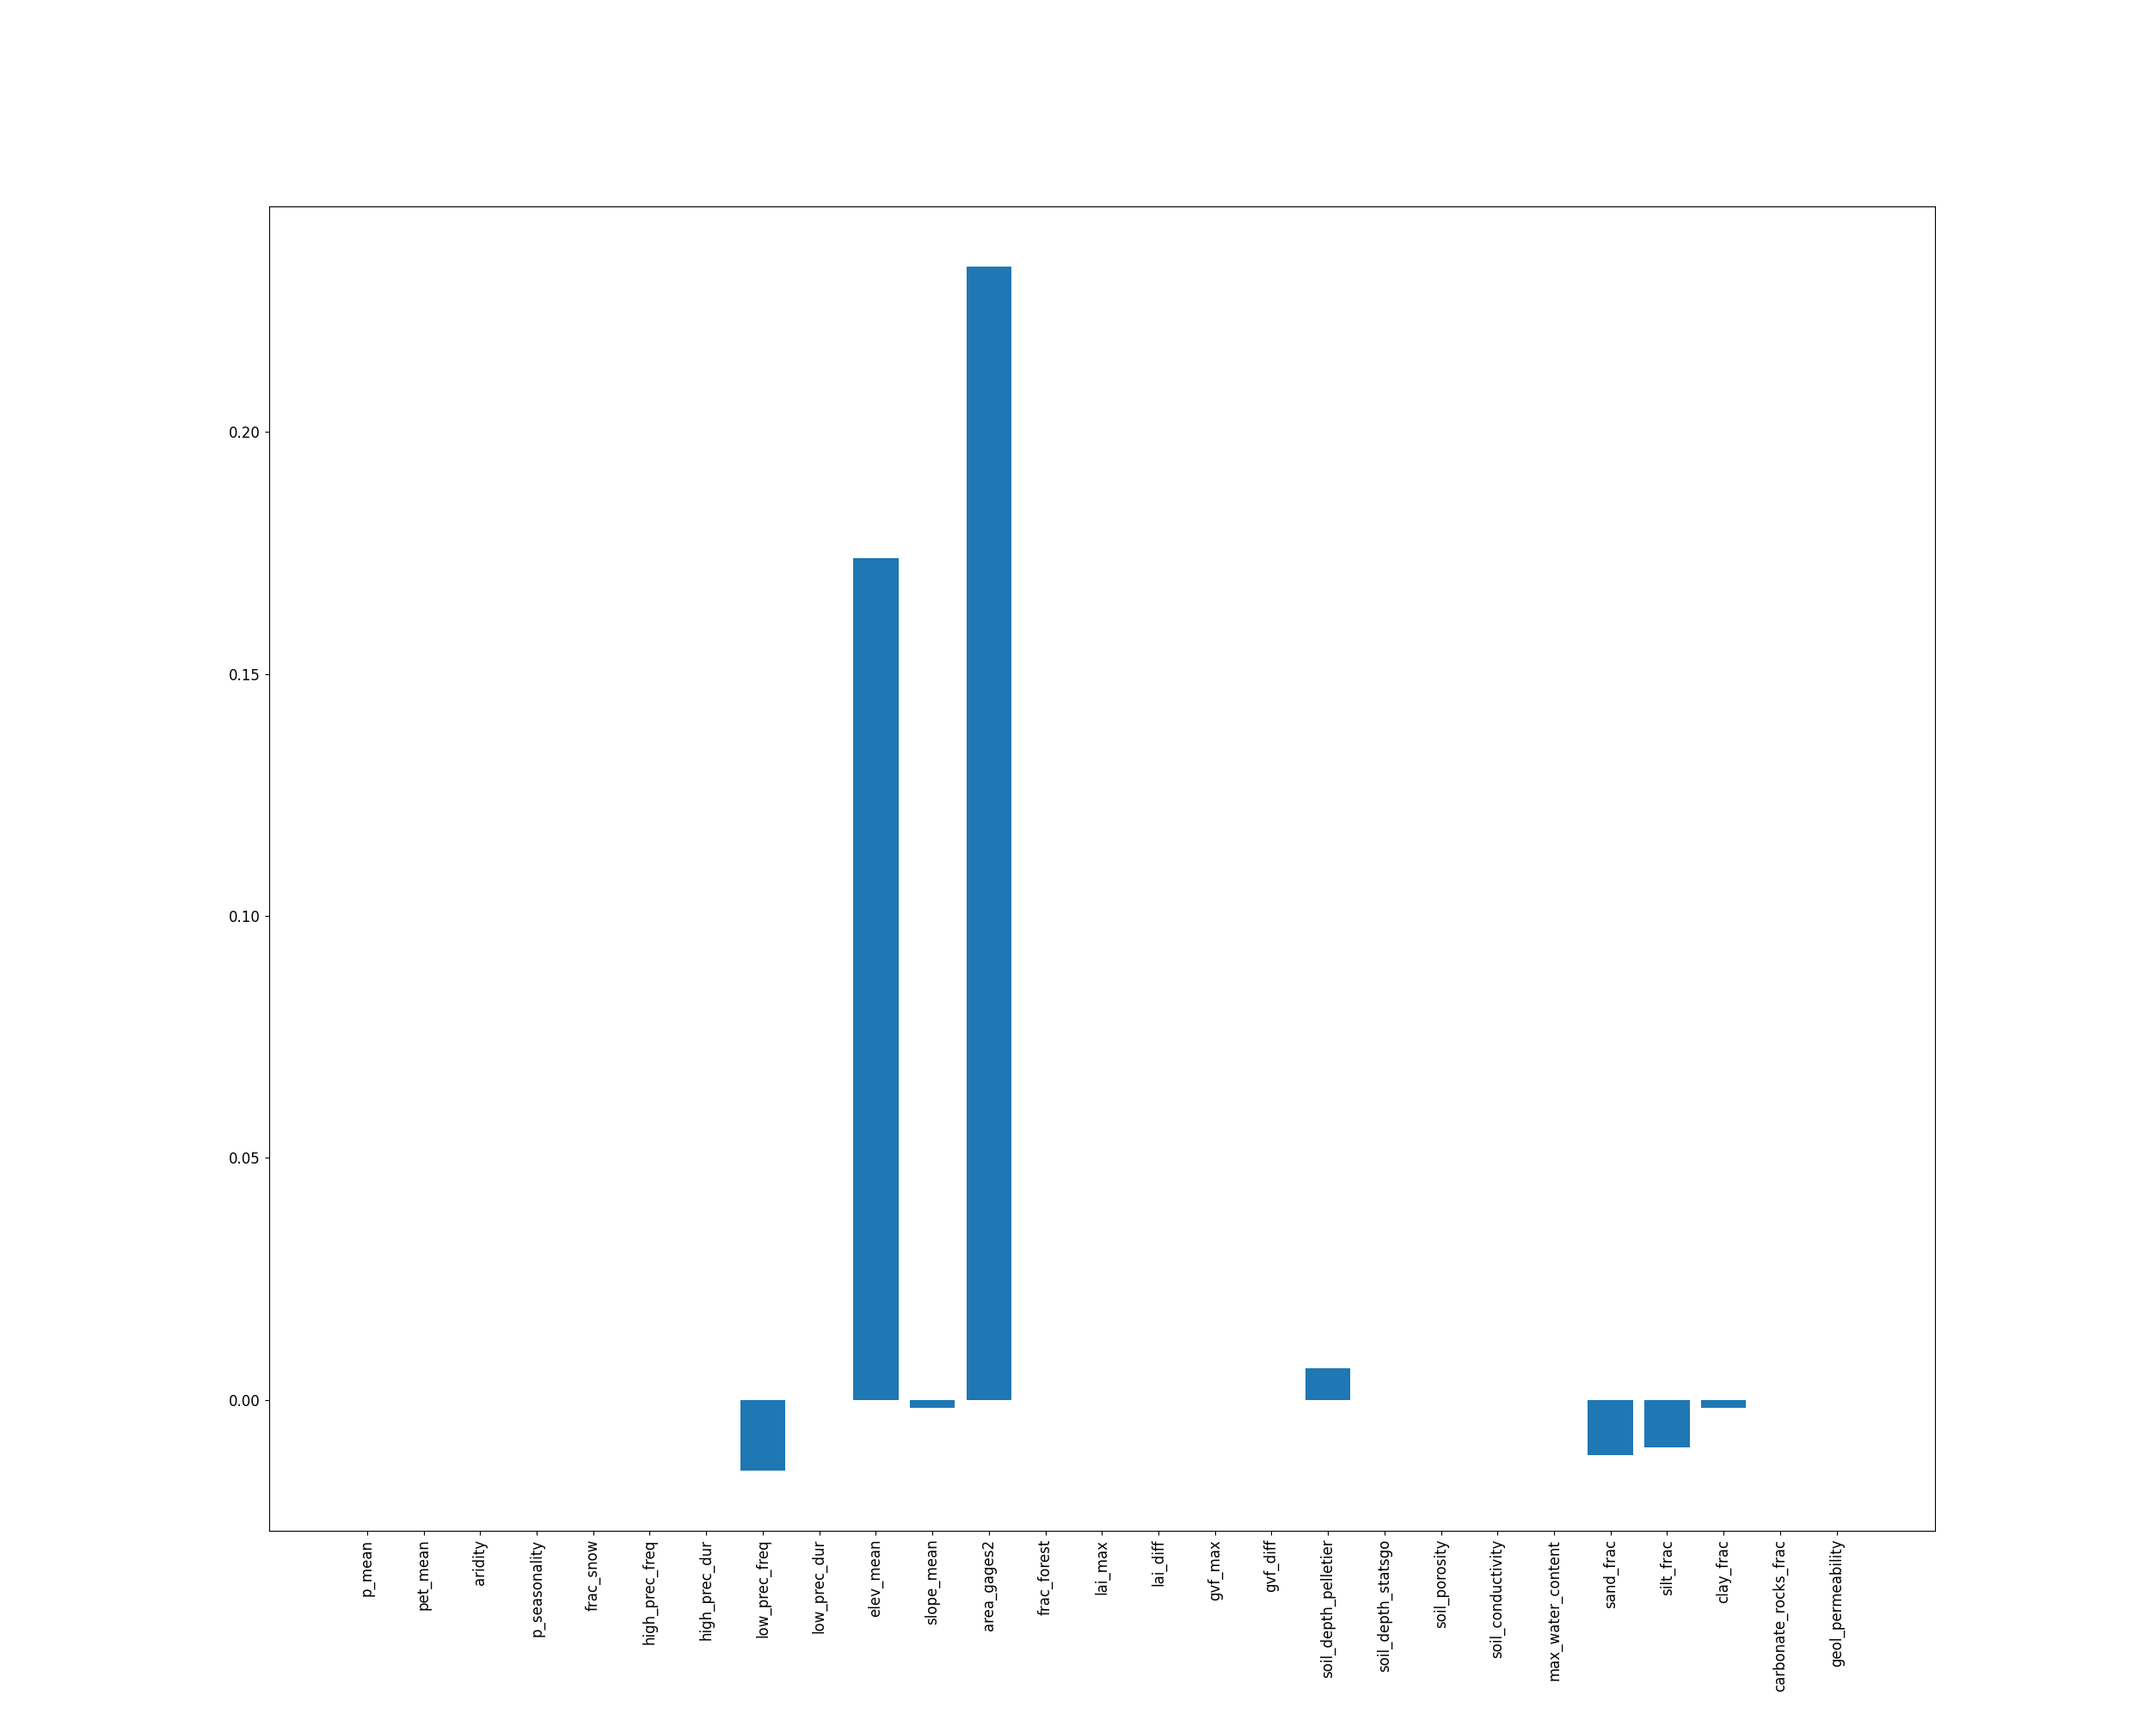
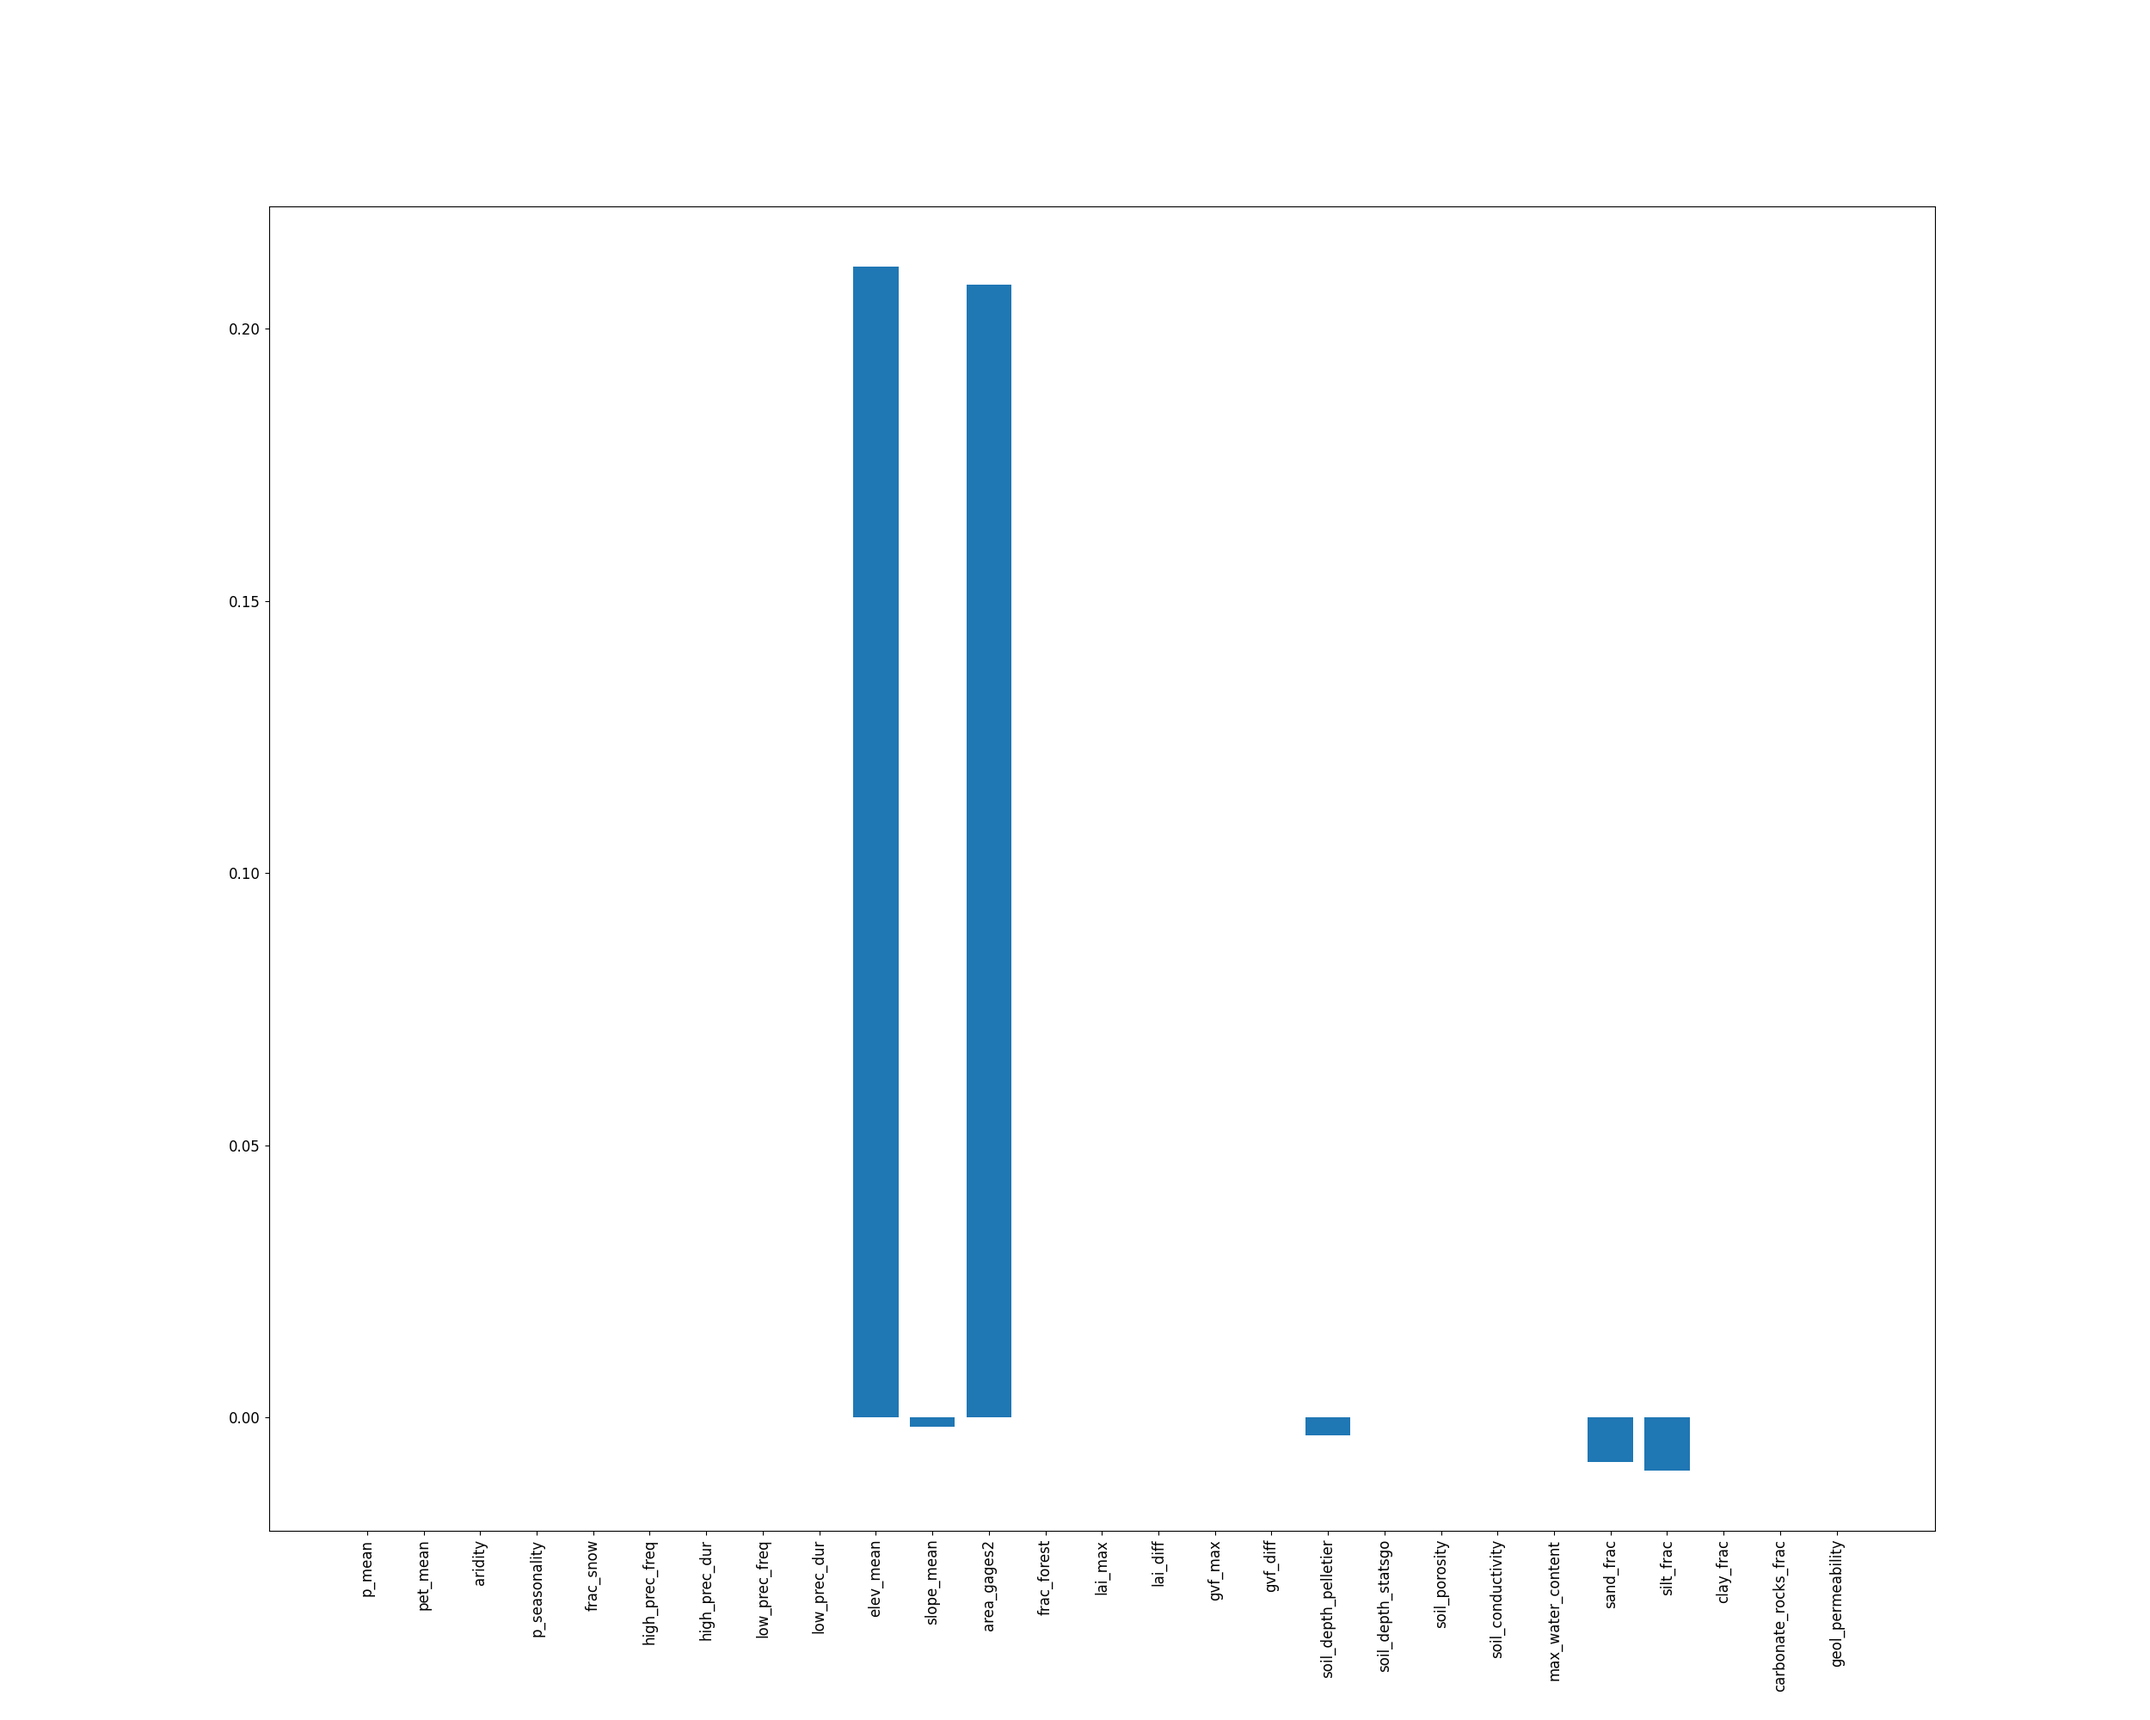
adding analisys

diff --git a/src/analyse_results_NSE_basins.py b/src/analyse_results_NSE_basins.py
@@ -12,10 +12,10 @@ from alibi.explainers import ALE, plot_ale
 
 
 def create_accumulated_local_effects(clf, df_results):
-    logit_fun_clf = clf.decision_function
-    logit_ale_clf = ALE(logit_fun_clf, feature_names=CAMELS_dataset.STATIC_ATTRIBUTES_NAMES, target_names=["label"])
-    logit_exp_clf = logit_ale_clf.explain(df_results.to_numpy()[:, :-1])
-    plot_ale(logit_exp_clf, n_cols=7, fig_kw={'figwidth': 12, 'figheight': 10})
+    fun_clf = clf.predict_proba
+    ale_clf = ALE(fun_clf, feature_names=CAMELS_dataset.STATIC_ATTRIBUTES_NAMES, target_names=["label"])
+    exp_clf = ale_clf.explain(df_results.to_numpy()[:, :-1])
+    plot_ale(exp_clf, n_cols=7, fig_kw={'figwidth': 12, 'figheight': 10})
     plt.savefig("ALE.png")
 
 
